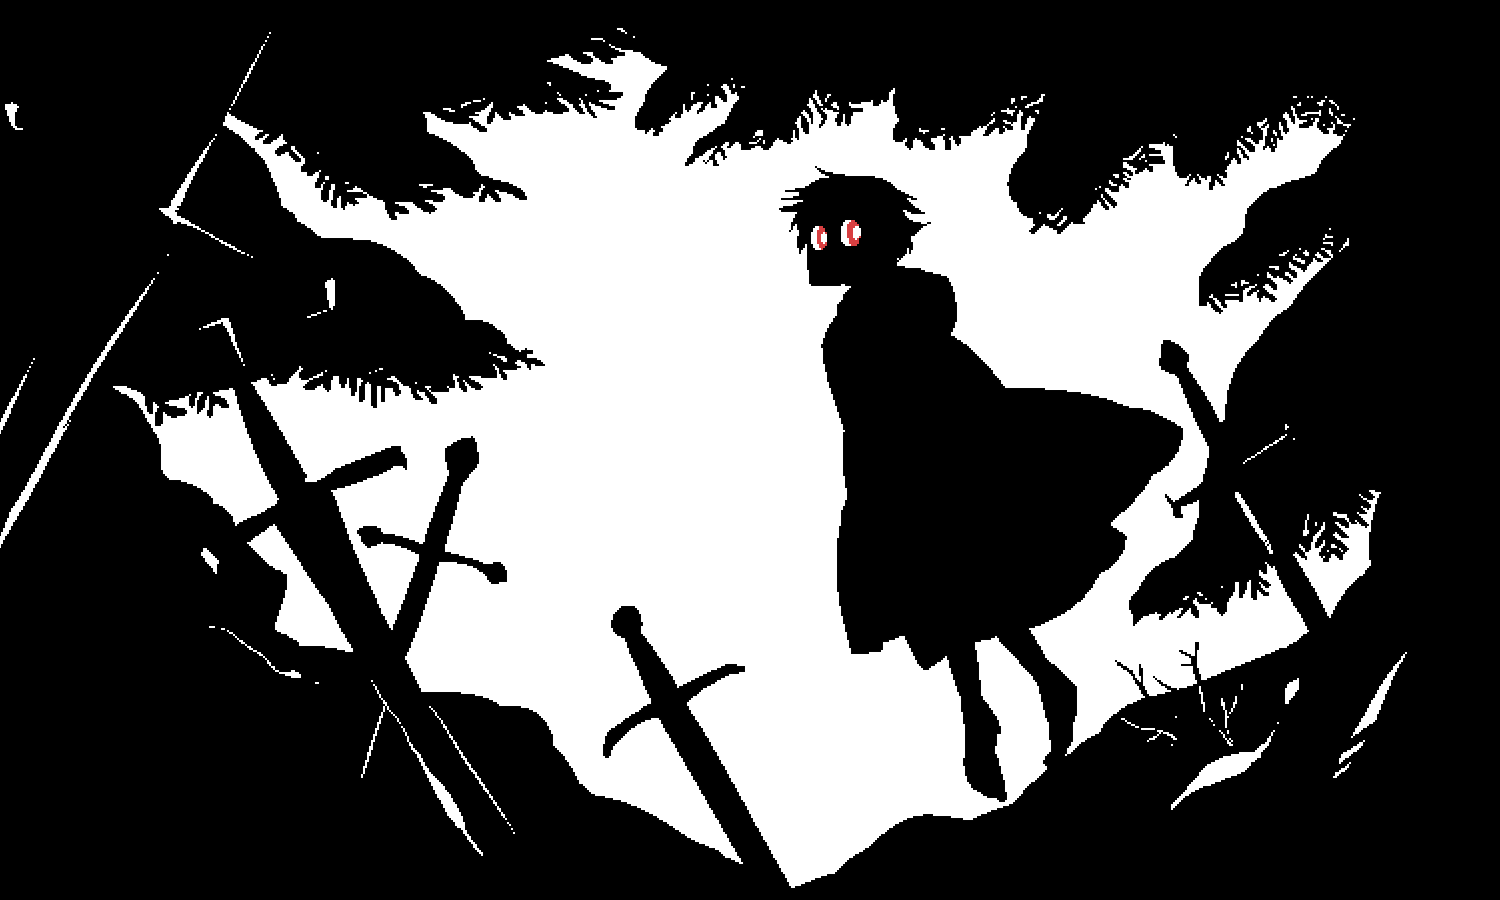
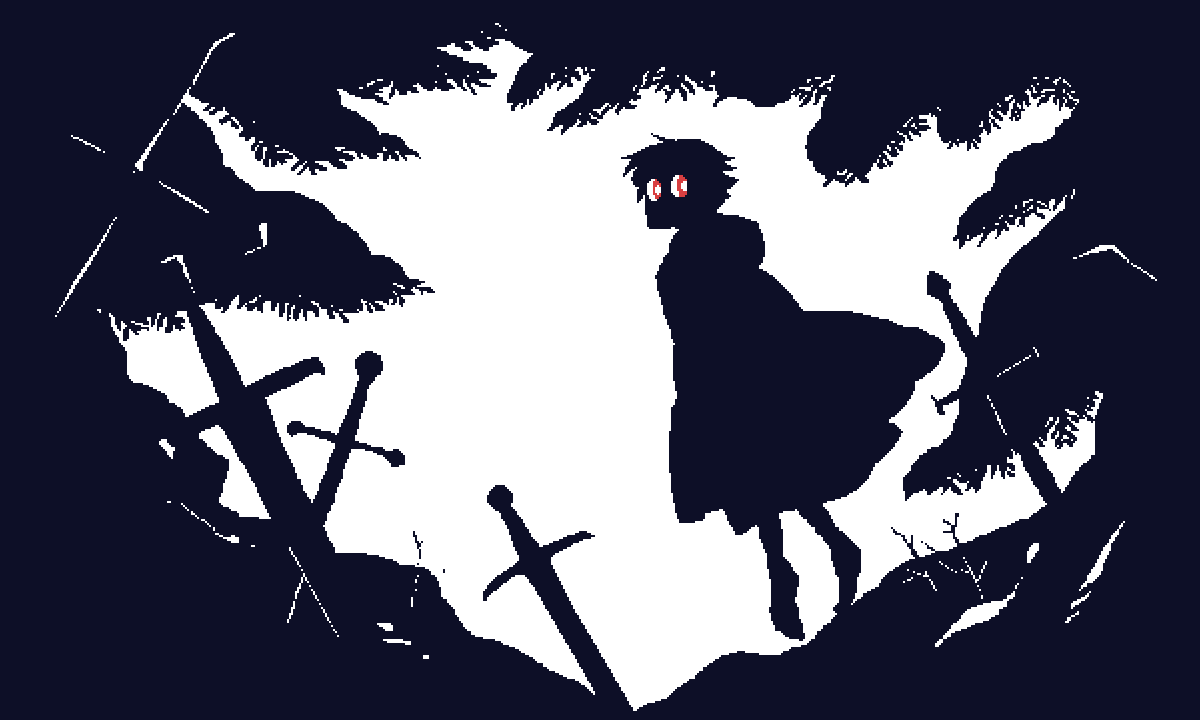
new front art

diff --git a/_includes/head.html b/_includes/head.html
@@ -23,6 +23,6 @@
 	<meta name="twitter:site" content="@baronblackmore">
 	<meta name="twitter:description" content="An action-adventure RPG where you are a vampire wizard, trying to make friends during a civil war.">
 	<meta name="twitter:image" content="http://www.wintersolacegame.com/images/social.png">
-	<meta name="twitter:image:width" content="1500">
-	<meta name="twitter:image:height" content="900">
+	<meta name="twitter:image:width" content="1200">
+	<meta name="twitter:image:height" content="720">
 </head>
